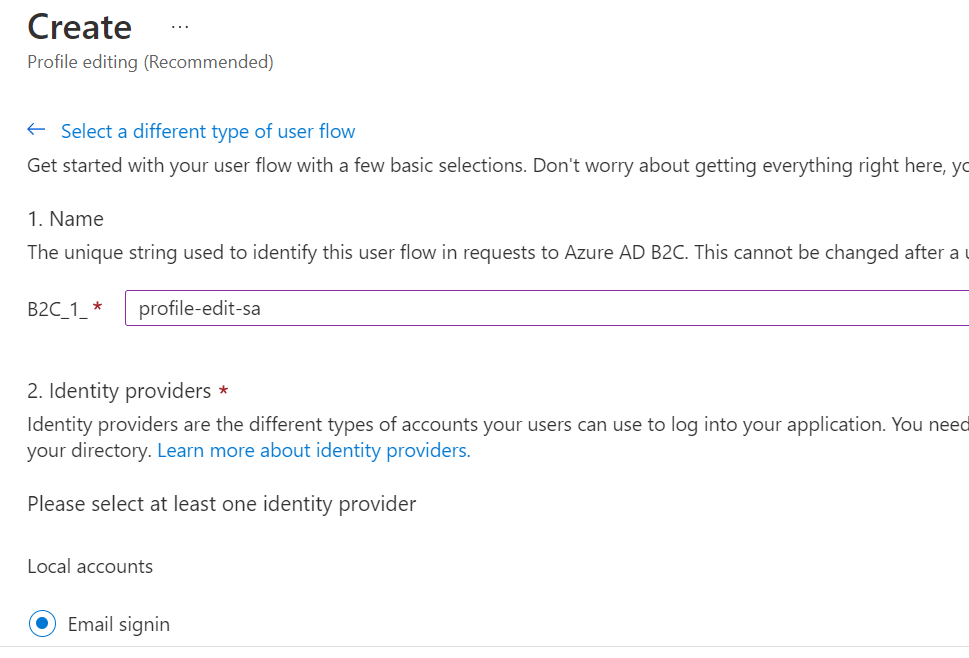
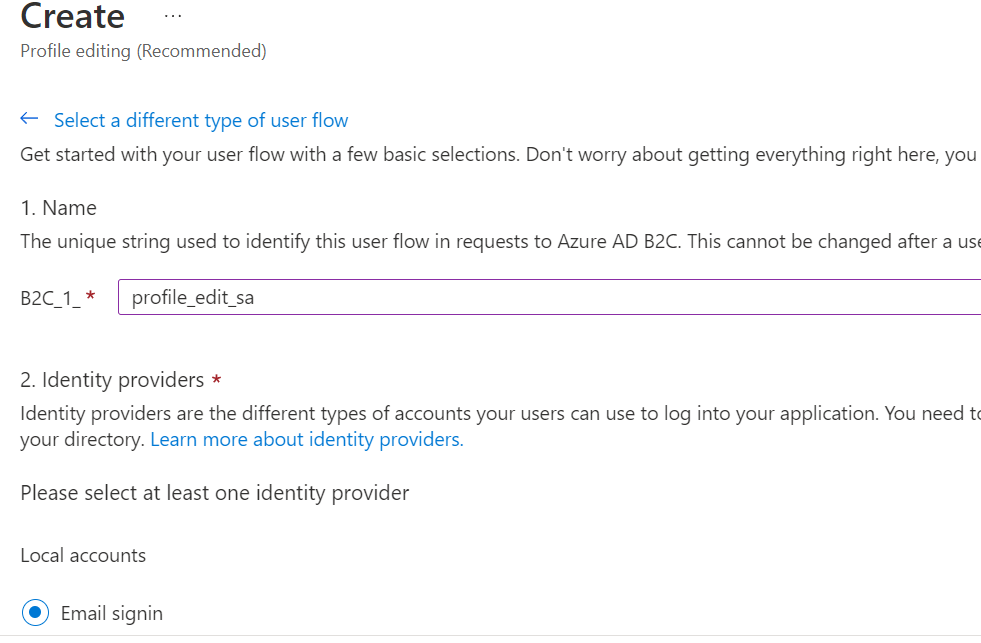
updated profile

diff --git a/profileedit.md b/profileedit.md
@@ -24,8 +24,8 @@ You can manage user profile editing by using a **User Flow** in the AAD B2C tena
 
 - Add a name for the user flow and set the ``Local accounts`` to **Email sign in**
 
-    - For a Self Asserted Digital ID, you can use the name : ``profile-edit-sa``
-    - For a Verified Digital ID, you can use the name : ``profile-edit``
+    - For a Self Asserted Digital ID, you can use the name : ``profile_edit_sa``
+    - For a Verified Digital ID, you can use the name : ``profile_edit``
 
 ![image](/images/profileedit/userflow-add2.png)
 
